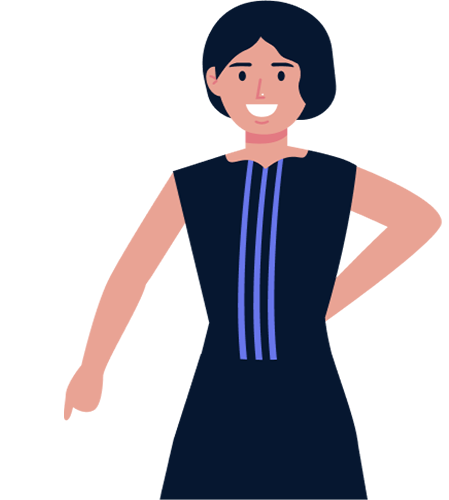
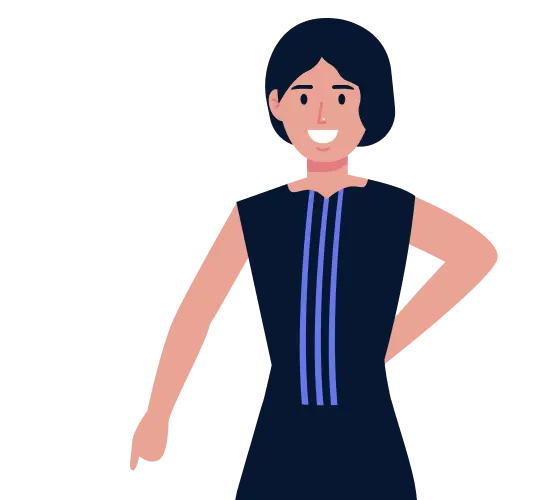
add new font size for MainIstruction and change image in image slider

Changed region(s): [[0.1247, 0.0, 0.9978, 1.0]]

diff --git a/client/src/atoms/MainSliderStatus/MainSliderStatus.tsx b/client/src/atoms/MainSliderStatus/MainSliderStatus.tsx
@@ -12,11 +12,11 @@ const MainSliderStatus: FC = () => {
       <div className="main-slider-status__element top"></div>
       <div className="main-slider-status__element bottom"></div>
       <div className="main-slider-status__ring">
-        <span className="main-slider-status__ring-container">
-          <span className="main-slider-status__ring-container-active">{mainPageSlider + 1}</span> 
-          {` step/ `}
+        <div className="main-slider-status__ring-container">
+          <span className="main-slider-status__ring-container-active">{`${mainPageSlider + 1} `} </span>
+          <span className="main-slider-status__ring-container-text">step/</span>
           <span className="main-slider-status__ring-container-all">2</span>
-        </span>
+        </div>
         
       </div>
     </div>

diff --git a/client/src/components/MainInstruction/MainInstruction.scss b/client/src/components/MainInstruction/MainInstruction.scss
@@ -4,14 +4,17 @@
   display: flex;
   flex-direction: column;
   align-items: center;
-  justify-content: center;
+  justify-content: space-between;
   max-width: 1200px;
   width: 100%;
   position: relative;
 
   &__item {
+    box-sizing: border-box;
+    // padding: 0 50px;
+    width: 100%;
     display: flex;
-    justify-content: space-between;
+    justify-content: space-around;
 
     animation-name: appeerance;
     animation-duration: 1s; 
@@ -44,6 +47,9 @@
           margin-bottom: 30px;
           display: flex;
           align-items: center;
+          font-size: 24px;
+          font-style: normal;
+          font-weight: 800;
           // justify-content: center;  
           
 

diff --git a/client/src/atoms/MainSliderStatus/MainSliderStatus.scss b/client/src/atoms/MainSliderStatus/MainSliderStatus.scss
@@ -23,15 +23,30 @@
     z-index: 99;
     display: flex;
     align-items: center;
+    justify-content: center;
     background-color: #fff;
 
     &-container {
+      max-width: 60px;
       width: 100%;
       display: flex;
       flex-wrap: wrap;
-      justify-content: center;
+      justify-content: space-between;
       align-items: center;
+      font-size: 20px;
+      font-weight: 900;
 
+      &-active,
+      &-all {
+        // display: block;
+        font-size: 20px;
+        font-weight: 900;
+      }
+
+      &-text {
+        font-size: 16px;
+        font-weight: 600;
+      }
       
       &-active, &-all {
         font-size: 20px;

diff --git a/client/src/components/MainSliderImg/MainSliderImg.scss b/client/src/components/MainSliderImg/MainSliderImg.scss
@@ -49,25 +49,25 @@
 
       &.front {
         left: 150%;
-        transform: translateX(-55%);
+        transform: translateX(-50%);
         bottom: -3px;
       }
 
       &.qa {
         left: 150%;
-        transform: translateX(-45%);
+        transform: translateX(-50%);
         bottom: -3px;
       }
 
       &.back {
         left: 150%;
-        transform: translateX(-57%);
+        transform: translateX(-42%);
         bottom: -3px;
       }
 
       &.design {
         left: 150%;
-        transform: translateX(-45%);
+        transform: translateX(-50%);
         bottom: -3px;
       }
 

diff --git a/client/src/atoms/SwitchToggle/SwitchToggle.scss b/client/src/atoms/SwitchToggle/SwitchToggle.scss
@@ -22,6 +22,8 @@
     padding: 10px 16px;
     border: 2px solid $borderWhiteTheme;
     border-radius: 32px 0px 0px 32px;
+    font-size: 16px;
+    font-weight: 800;
 
 
     &:hover {
